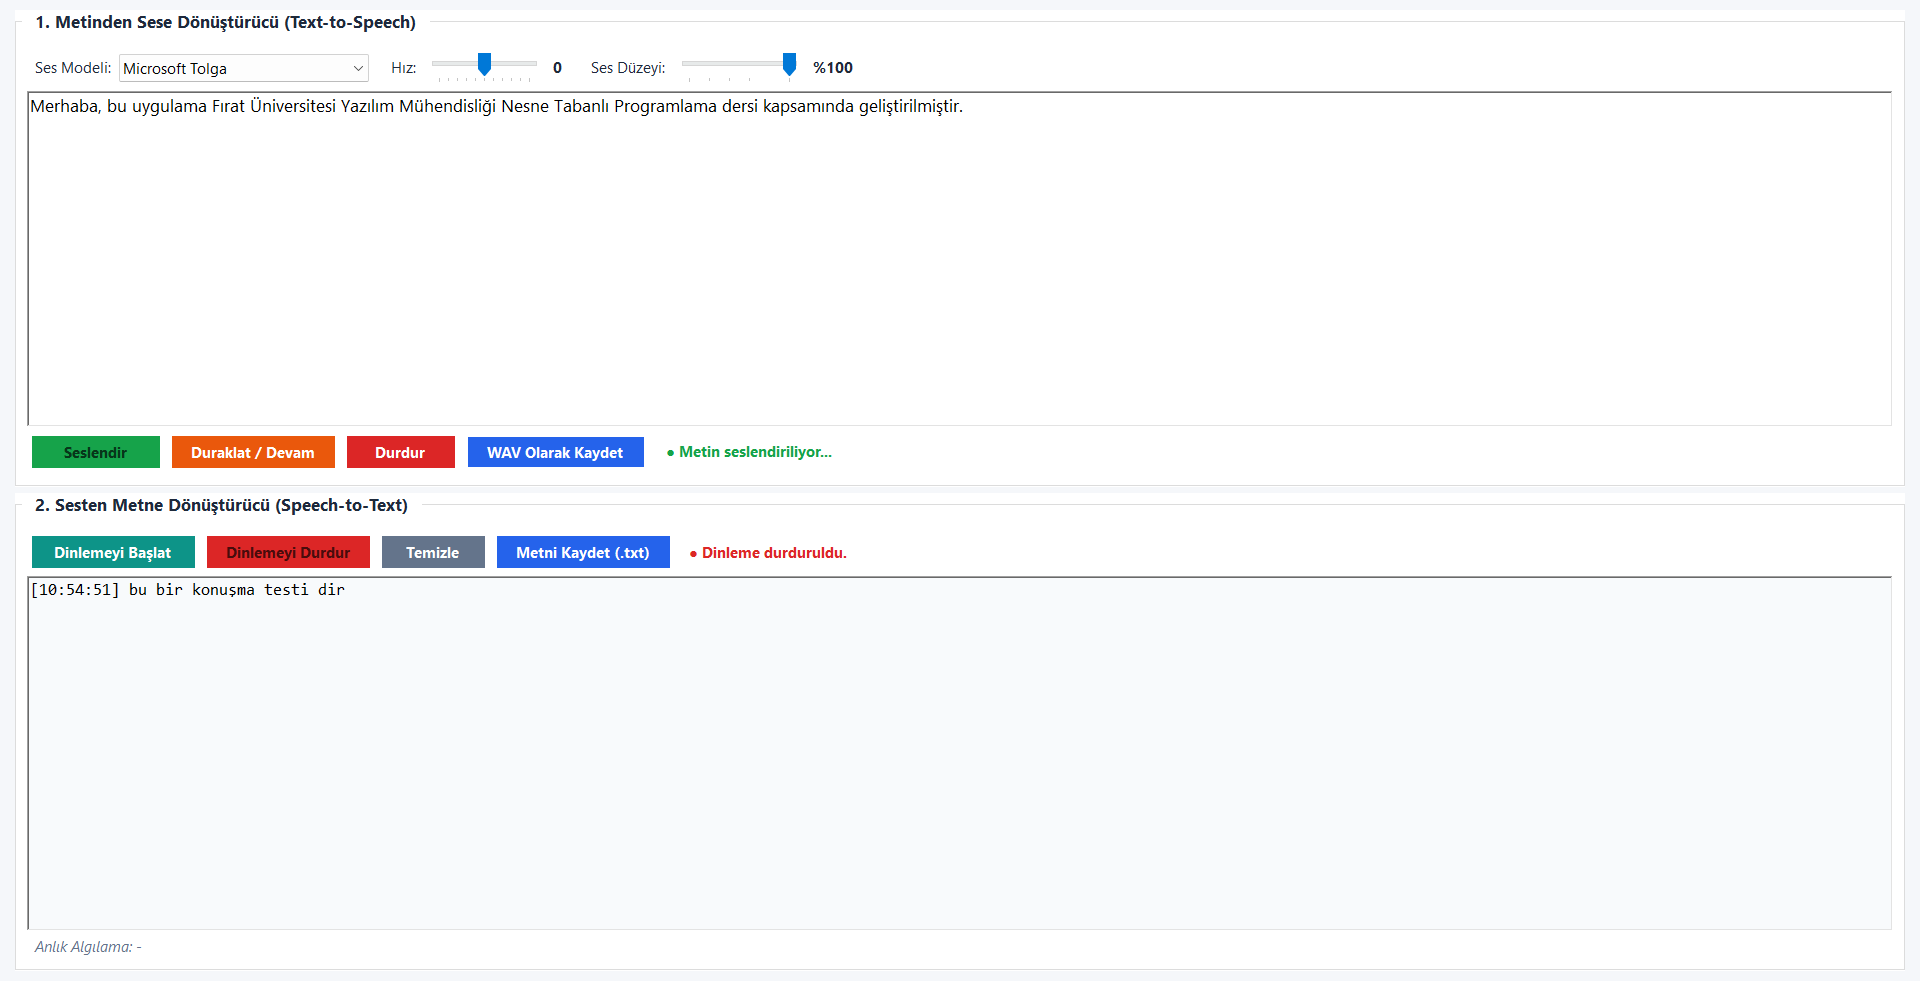
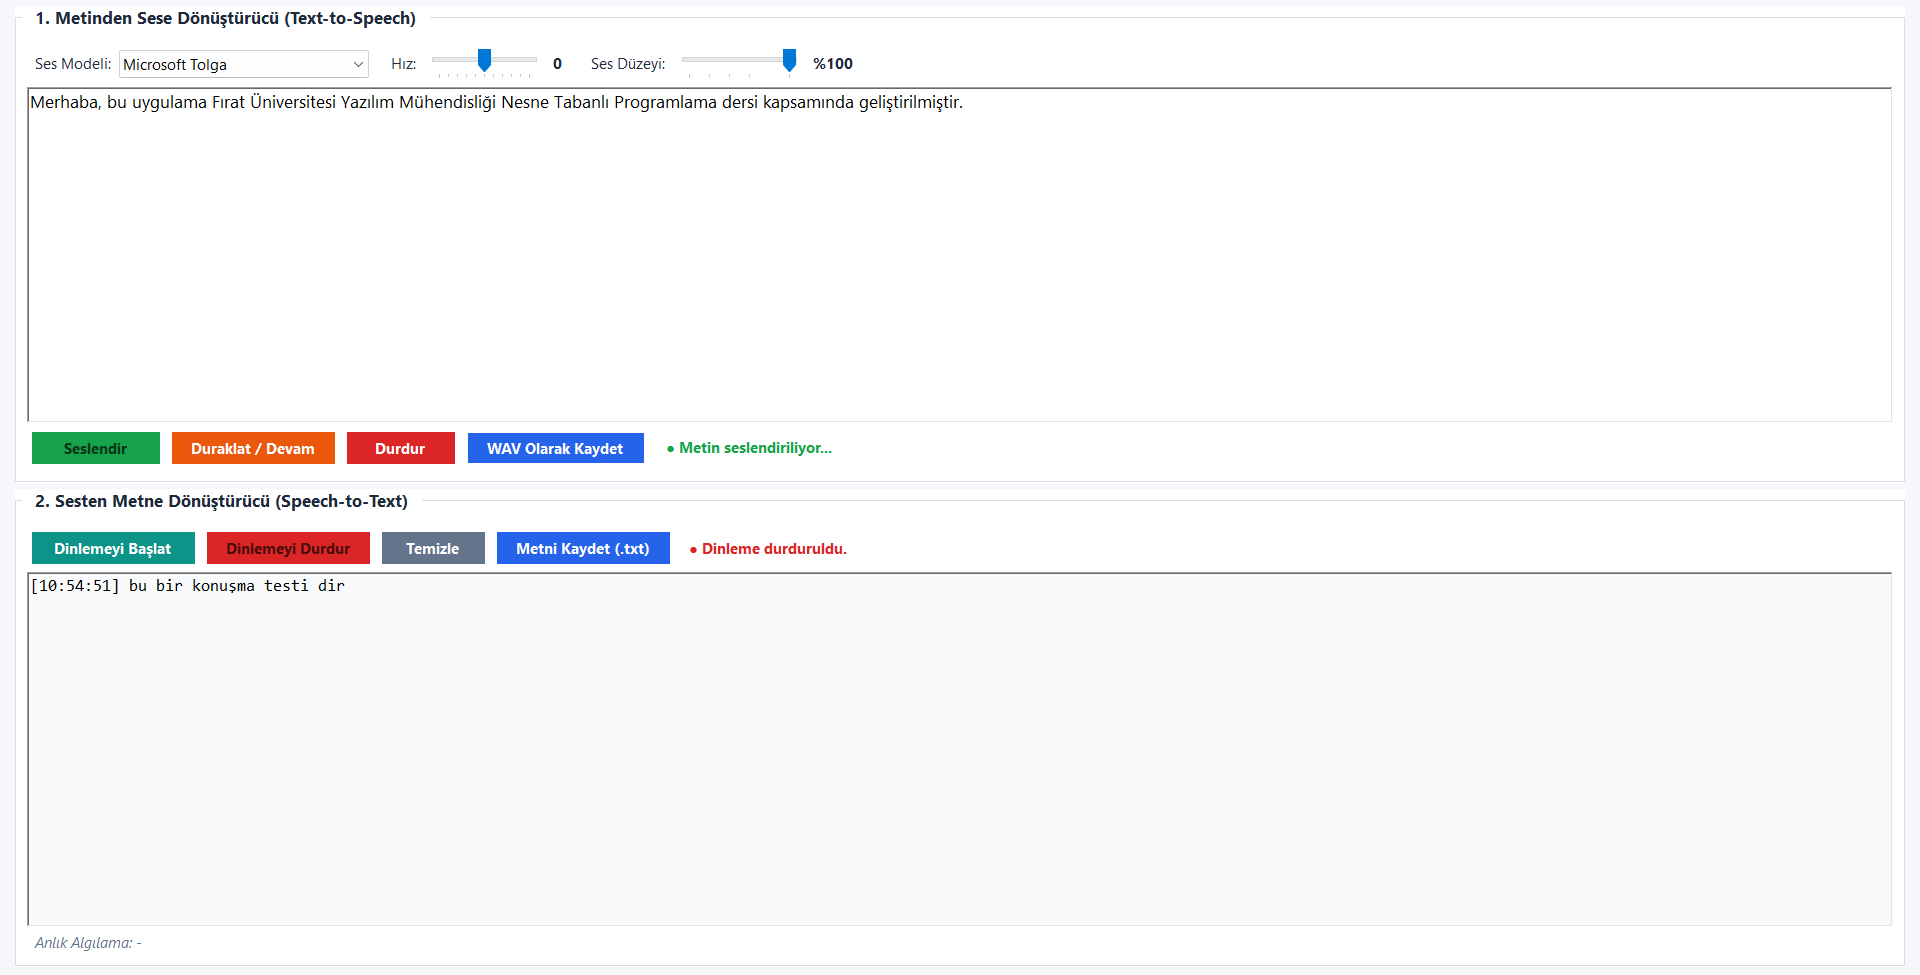
docs: kırpılmış ekran görüntüsü eklendi

diff --git a/README.md b/README.md
@@ -12,4 +12,4 @@ Fırat Üniversitesi Yazılım Mühendisliği Bölümü **YMH 219 - Nesne Tabanl
 3. Visual Studio ile projeyi açıp çalıştırın (F5).
 
 ## Ekran Görüntüsü
-![Uygulama Önizlemesi](app_preview.png?v=2)
+![Uygulama Önizlemesi](app_preview.png?v=3)
